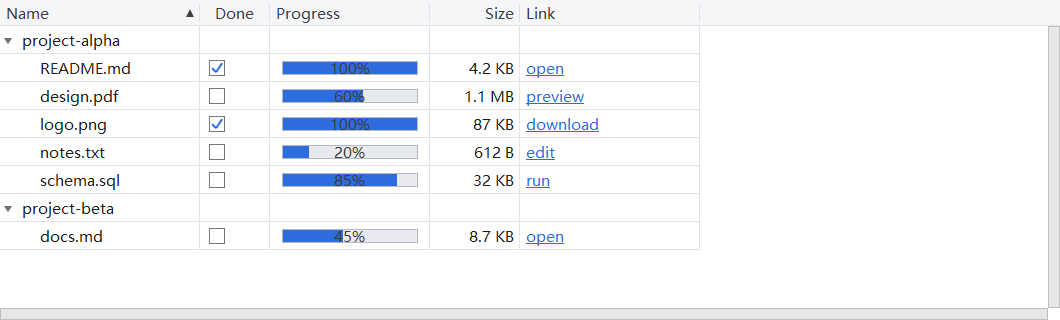
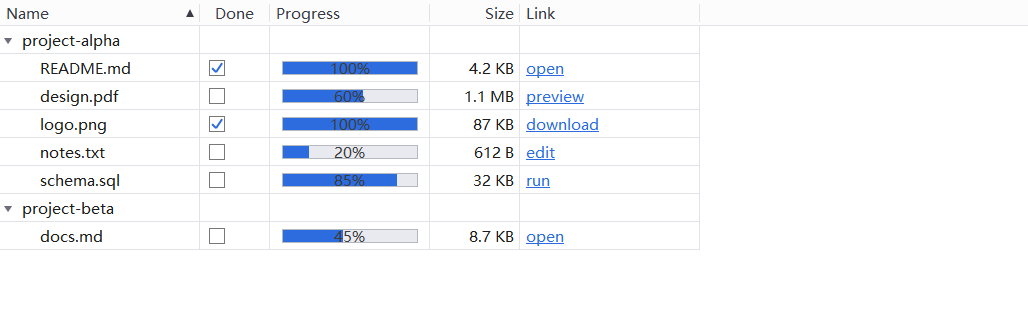
docs: add screenshots for the new menu, list and tooltip features and retake the scroll bar ones
- New: ctl-menu-header-shortcut.png (group headers and the right-aligned
  shortcut column), ctl-listbox-icons.png (row icons, secondary text and
  delete crosses), ctl-tooltip-multiline.png (a two-line tip), inserted into
  the DuiMenu / DuiListBox / DuiToolTip sections of both guides.
- Retaken: ctl-scrollbar-states.png now shows the thin overlay thumbs (with
  auto-hide off for the shot; caption updated), ctl-treeview-multicol.png no
  longer shows the old track scroll bars, and ctl-button-pushbutton-states.png
  matches the current push button look.

All screenshots use English text like the existing ones, since both guides
share the images; guides.md / guides_en.md are regenerated.

diff --git a/docs/guides_en.html b/docs/guides_en.html
@@ -2906,6 +2906,10 @@ vbox-&gt;AddChild(std::move(lb), balloonwjui::DuiLayout::Hint().Weight(1));
     <tr><td><code>SetShowItemDelete(bool)</code></td><td>Draws a delete cross at the right end of each row (off by default); clicking it fires <code>DUITN_ITEMDELETE</code> and changes <u>neither</u> the selection nor the rows — the host decides whether to delete. The cross moves left to clear the scroll bar while the bar is shown.</td></tr>
     <tr><td><code>SetItemHeight(px)</code> / <code>SetDragReorderEnabled(bool)</code> / <code>MoveItem(from, to)</code></td><td>Row height; drag reordering.</td></tr>
   </table>
+  <figure class="ctl-fig">
+    <img src="images/ctl-listbox-icons.png" alt="DuiListBox row icons, secondary text and delete crosses">
+    <figcaption>A left icon, the main text and a dimmed secondary text per row, with a delete cross at the right end (<code>SetShowItemDelete(true)</code>); the second row is selected. The dropdown of <code>DuiComboBox</code> draws its rows the same way.</figcaption>
+  </figure>
   <h4>Events</h4>
   <table class="ev-table">
     <tr><th>code</th><th>When it fires</th><th>extra (LPARAM)</th></tr>
@@ -3624,6 +3628,10 @@ if (n-&gt;ctrlId == IDC_TABPAGE &amp;&amp; n-&gt;code == DUIN_VALUECHANGED) {
 
 <div class="control" id="DuiMenu">
   <h3>DuiMenu <span class="tag popup">popup</span></h3>
+  <figure class="ctl-fig">
+    <img src="images/ctl-menu-header-shortcut.png" alt="DuiMenu group headers and shortcut column">
+    <figcaption>Two group headers (Edit / Format), the grey right-aligned shortcut column, a checked item (Word wrap) and a disabled item (Clear formatting).</figcaption>
+  </figure>
   <p>Right-click / command menu. Supports icons, checkable items, disabled items, submenus (auto-expand on hover), separators, group header rows, and a right-aligned shortcut-text column.</p>
 
   <p><b>Typical parent:</b> <u>not attached</u> to a parent DuiControl — create a <code>DuiMenu</code> on the stack and call <code>TrackPopup(x, y, ownerHwnd)</code> to pop it up at screen coordinates. <code>TrackPopup</code> is <u>synchronous</u> (like Win32 <code>TrackPopupMenu</code>): it returns after the user picks an item, clicks outside, or presses Esc, and its return value is the chosen item id, or 0 if nothing was chosen. The position is clamped to the work area of the anchor's monitor automatically (it flips left when there is no room on the right and up when there is no room below), so a menu opened at the screen edge never ends up off the desktop; callers need not handle this.</p>
@@ -3773,6 +3781,10 @@ balloonwjui::DuiToolTipMgr::Inst().Unregister(buttonRaw);
   <p><b>Multi-line tips</b>: put <code>\n</code> in the text to break lines; lines are left-aligned, the popup is as wide as the longest line and as tall as the line count × line height. Text without a line break is laid out on a single line as before.</p>
 <pre><code>balloonwjui::DuiToolTipMgr::Inst().Register(buttonRaw, _T("Save the file\nShortcut: Ctrl+S"));
 </code></pre>
+  <figure class="ctl-fig">
+    <img src="images/ctl-tooltip-multiline.png" alt="DuiToolTip multi-line tip">
+    <figcaption>A two-line tip: the popup is as wide as the longest line.</figcaption>
+  </figure>
   <p><b>Delay and font</b>: the tip appears after the mouse rests for 500 ms by default; change it with <code>DuiToolTipMgr::Inst().SetDelay(ms)</code>. The popup takes its font and measures its size with the DPI of the monitor it pops up on, so the text size is right on monitors with different scaling.</p>
 
   <p class="note"><b>No XML path</b>: tooltips are registered via an imperative API; there's no "attach to control tree" step, so they don't participate in the XML builder.</p>
@@ -4111,7 +4123,7 @@ int idBell     = frame.AddCaptionIcon(hBell,     _T("Notifications"));
   <h3>DuiScrollBar / DuiScrollView</h3>
   <figure class="ctl-fig">
     <img src="images/ctl-scrollbar-states.png" alt="DuiScrollBar vertical + horizontal">
-    <figcaption>Left: vertical scrollbar. Right: horizontal scrollbar. The thumb position follows SetPos. (The screenshot shows the style used before the switch to the thin overlay thumb on 2026-10-04.)</figcaption>
+    <figcaption>Left: vertical scrollbar. Right: horizontal scrollbar. Thin overlay thumbs with no track; the thumb position follows SetPos. Auto-hide was turned off for the screenshot (<code>SetAutoHide(false)</code>); by default the bars fade out about 800 ms after the last interaction.</figcaption>
   </figure>
   <p>Standalone scrollbar + built-in scroll container. <code>DuiScrollView::SetContent(child)</code> installs the content; <code>SetContentHeight(h)</code> (or <code>SetAutoContentHeight(true)</code> to auto-measure) declares the scroll range.</p>
   <p><b>Appearance (thin overlay thumb):</b> only a 5 px wide, semi-transparent gray thumb with semicircular ends is painted (gray <code>0x5A</code>, opacity 120/255, multiplied by the fade alpha), 2 px in from the right edge of the control rectangle (the bottom edge for a horizontal scrollbar); no track is painted, and the thumb is at least 36 px long along the main axis. The control rectangle itself is a wider "hit band": <code>DuiScrollView</code> / <code>DuiListBox</code> / <code>DuiTreeView</code> float it over the content along the right edge, <code>DuiScrollBar::kOverlayBandPx</code> (11 px) wide by default, and <u>lay the content out at full width</u>; while the scrollbar is shown, mouse events inside the hit band go to the scrollbar even if it is currently faded out. Press the thumb to drag it; pressing on an empty part of the track first moves the thumb's center to the click point, after which you can keep dragging.</p>

diff --git a/docs/guides.html b/docs/guides.html
@@ -2901,6 +2901,10 @@ vbox-&gt;AddChild(std::move(lb), balloonwjui::DuiLayout::Hint().Weight(1));
     <tr><td><code>SetShowItemDelete(bool)</code></td><td>每行右端画删除叉（默认关）；点叉发 <code>DUITN_ITEMDELETE</code>，<u>不改变</u>选中行，也不删该行，由宿主决定是否删除。滚动条出现时删除叉左移，让开滚动条</td></tr>
     <tr><td><code>SetItemHeight(px)</code> / <code>SetDragReorderEnabled(bool)</code> / <code>MoveItem(from, to)</code></td><td>行高；拖动重排</td></tr>
   </table>
+  <figure class="ctl-fig">
+    <img src="images/ctl-listbox-icons.png" alt="DuiListBox 每行图标、副文字与删除叉">
+    <figcaption>每行左侧图标 + 主文字 + 弱色副文字，右端是删除叉（<code>SetShowItemDelete(true)</code>），第二行选中。下拉框（<code>DuiComboBox</code>）的下拉列表画法相同。</figcaption>
+  </figure>
   <h4>事件</h4>
   <table class="ev-table">
     <tr><th>code</th><th>触发</th><th>extra (LPARAM)</th></tr>
@@ -3614,6 +3618,10 @@ if (n-&gt;ctrlId == IDC_TABPAGE &amp;&amp; n-&gt;code == DUIN_VALUECHANGED) {
 
 <div class="control" id="DuiMenu">
   <h3>DuiMenu <span class="tag popup">popup</span></h3>
+  <figure class="ctl-fig">
+    <img src="images/ctl-menu-header-shortcut.png" alt="DuiMenu 分组标题与快捷键列">
+    <figcaption>两个分组标题（Edit / Format）、靠右的灰色快捷键列、勾选项（Word wrap）与禁用项（Clear formatting）。</figcaption>
+  </figure>
   <p>右键 / 命令菜单。支持图标、勾选项、禁用项、子菜单（悬停自动展开）、分隔线、分组标题行，以及靠右对齐的快捷键文字列。</p>
 
   <p><b>典型父：</b><u>不挂</u>父 DuiControl —— 在栈上建一个 <code>DuiMenu</code>，调 <code>TrackPopup(x, y, ownerHwnd)</code> 在屏幕坐标弹出。<code>TrackPopup</code> 是<u>同步</u>的（与 Win32 的 <code>TrackPopupMenu</code> 一样）：用户点了某项、点到菜单外或按 Esc 之后才返回，返回值就是被点项的 id，0 表示没有选择。落点会自动限制在锚点所在显示器的工作区内（右边放不下翻向左、下边放不下翻向上），贴着屏幕边缘弹出也不会跑到桌面外，调用方不必自己处理。</p>
@@ -3763,6 +3771,10 @@ balloonwjui::DuiToolTipMgr::Inst().Unregister(buttonRaw);
   <p><b>多行提示</b>：文字里用 <code>\n</code> 分行，各行左对齐，浮窗宽度取最长的一行、高度为行数 × 行高；不含换行符时按单行排版。</p>
 <pre><code>balloonwjui::DuiToolTipMgr::Inst().Register(buttonRaw, _T("保存文件\n快捷键 Ctrl+S"));
 </code></pre>
+  <figure class="ctl-fig">
+    <img src="images/ctl-tooltip-multiline.png" alt="DuiToolTip 多行提示">
+    <figcaption>两行的提示框：宽度取最长的一行。</figcaption>
+  </figure>
   <p><b>延时与字体</b>：鼠标停留默认 500 ms 后弹出，<code>DuiToolTipMgr::Inst().SetDelay(ms)</code> 可调。浮窗按弹出位置所在显示器的 DPI 取字体并测量尺寸，在缩放比例不同的显示器上字号各自正确。</p>
 
   <p class="note"><b>无 XML 路径</b>：tooltip 通过命令式 API 注册，没有"挂入控件树"这一步，因此不参与 XML builder。</p>
@@ -4101,7 +4113,7 @@ int idBell     = frame.AddCaptionIcon(hBell,     _T("Notifications"));
   <h3>DuiScrollBar / DuiScrollView</h3>
   <figure class="ctl-fig">
     <img src="images/ctl-scrollbar-states.png" alt="DuiScrollBar 垂直 + 水平">
-    <figcaption>左侧：垂直滚动条；右侧：水平滚动条。thumb 位置随 SetPos 改变。（截图为 2026-10-04 改为悬浮式细滑块之前的样式。）</figcaption>
+    <figcaption>左侧：垂直滚动条；右侧：水平滚动条。悬浮式细滑块，不画轨道，thumb 位置随 SetPos 改变。截图时关闭了自动隐藏（<code>SetAutoHide(false)</code>），默认情况下停止操作约 800 ms 后会淡出。</figcaption>
   </figure>
   <p>独立滚动条 + 内置滚动容器。<code>DuiScrollView::SetContent(child)</code> 装内容，<code>SetContentHeight(h)</code>（或 <code>SetAutoContentHeight(true)</code> 自动量高）告知滚动范围。</p>
   <p><b>外观（悬浮式细滑块）：</b>只画一根 5 像素宽、两端为半圆的半透明灰色滑块（灰 <code>0x5A</code>、不透明度 120/255，再乘以淡入淡出的 alpha），贴在控件矩形右缘往里 2 像素处（水平滚动条为下缘），不画轨道；滑块沿主轴最短 36 像素。控件矩形本身是比滑块宽的「命中带」，<code>DuiScrollView</code> / <code>DuiListBox</code> / <code>DuiTreeView</code> 把它浮在内容之上、贴右缘放置，默认宽 <code>DuiScrollBar::kOverlayBandPx</code>（11 像素），<u>内容按全宽排版</u>；滚动条出现时命中带内的鼠标事件归滚动条，即使它当前处于隐藏态。按下滑块拖动；按在轨道空白处时滑块中心先跳到点击处，接着可以继续拖。</p>

diff --git a/docs/guides_en.md b/docs/guides_en.md
@@ -2736,6 +2736,10 @@ vbox->AddChild(std::move(lb), balloonwjui::DuiLayout::Hint().Weight(1));
 | `SetShowItemDelete(bool)` | Draws a delete cross at the right end of each row (off by default); clicking it fires `DUITN_ITEMDELETE` and changes <u>neither</u> the selection nor the rows — the host decides whether to delete. The cross moves left to clear the scroll bar while the bar is shown. |
 | `SetItemHeight(px)` / `SetDragReorderEnabled(bool)` / `MoveItem(from, to)` | Row height; drag reordering. |
 
+![DuiListBox row icons, secondary text and delete crosses](images/ctl-listbox-icons.png)
+
+*A left icon, the main text and a dimmed secondary text per row, with a delete cross at the right end (`SetShowItemDelete(true)`); the second row is selected. The dropdown of `DuiComboBox` draws its rows the same way.*
+
 #### Events
 
 | code | When it fires | extra (LPARAM) |
@@ -3524,6 +3528,10 @@ if (n->ctrlId == IDC_TABPAGE && n->code == DUIN_VALUECHANGED) {
 
 ### DuiMenu  `[popup]`
 
+![DuiMenu group headers and shortcut column](images/ctl-menu-header-shortcut.png)
+
+*Two group headers (Edit / Format), the grey right-aligned shortcut column, a checked item (Word wrap) and a disabled item (Clear formatting).*
+
 Right-click / command menu. Supports icons, checkable items, disabled items, submenus (auto-expand on hover), separators, group header rows, and a right-aligned shortcut-text column.
 
 **Typical parent:** <u>not attached</u> to a parent DuiControl — create a `DuiMenu` on the stack and call `TrackPopup(x, y, ownerHwnd)` to pop it up at screen coordinates. `TrackPopup` is <u>synchronous</u> (like Win32 `TrackPopupMenu`): it returns after the user picks an item, clicks outside, or presses Esc, and its return value is the chosen item id, or 0 if nothing was chosen. The position is clamped to the work area of the anchor's monitor automatically (it flips left when there is no room on the right and up when there is no room below), so a menu opened at the screen edge never ends up off the desktop; callers need not handle this.
@@ -3692,6 +3700,10 @@ balloonwjui::DuiToolTipMgr::Inst().Unregister(buttonRaw);
 ```
 balloonwjui::DuiToolTipMgr::Inst().Register(buttonRaw, _T("Save the file\nShortcut: Ctrl+S"));
 ```
+
+![DuiToolTip multi-line tip](images/ctl-tooltip-multiline.png)
+
+*A two-line tip: the popup is as wide as the longest line.*
 
 **Delay and font**: the tip appears after the mouse rests for 500 ms by default; change it with `DuiToolTipMgr::Inst().SetDelay(ms)`. The popup takes its font and measures its size with the DPI of the monitor it pops up on, so the text size is right on monitors with different scaling.
 
@@ -4087,7 +4099,7 @@ The same client-area content (one `BuildBuddyInfoContent`) shown in four configu
 
 ![DuiScrollBar vertical + horizontal](images/ctl-scrollbar-states.png)
 
-*Left: vertical scrollbar. Right: horizontal scrollbar. The thumb position follows SetPos. (The screenshot shows the style used before the switch to the thin overlay thumb on 2026-10-04.)*
+*Left: vertical scrollbar. Right: horizontal scrollbar. Thin overlay thumbs with no track; the thumb position follows SetPos. Auto-hide was turned off for the screenshot (`SetAutoHide(false)`); by default the bars fade out about 800 ms after the last interaction.*
 
 Standalone scrollbar + built-in scroll container. `DuiScrollView::SetContent(child)` installs the content; `SetContentHeight(h)` (or `SetAutoContentHeight(true)` to auto-measure) declares the scroll range.
 

diff --git a/docs/guides.md b/docs/guides.md
@@ -2733,6 +2733,10 @@ vbox->AddChild(std::move(lb), balloonwjui::DuiLayout::Hint().Weight(1));
 | `SetShowItemDelete(bool)` | 每行右端画删除叉（默认关）；点叉发 `DUITN_ITEMDELETE`，<u>不改变</u>选中行，也不删该行，由宿主决定是否删除。滚动条出现时删除叉左移，让开滚动条 |
 | `SetItemHeight(px)` / `SetDragReorderEnabled(bool)` / `MoveItem(from, to)` | 行高；拖动重排 |
 
+![DuiListBox 每行图标、副文字与删除叉](images/ctl-listbox-icons.png)
+
+*每行左侧图标 + 主文字 + 弱色副文字，右端是删除叉（`SetShowItemDelete(true)`），第二行选中。下拉框（`DuiComboBox`）的下拉列表画法相同。*
+
 #### 事件
 
 | code | 触发 | extra (LPARAM) |
@@ -3516,6 +3520,10 @@ if (n->ctrlId == IDC_TABPAGE && n->code == DUIN_VALUECHANGED) {
 
 ### DuiMenu  `[popup]`
 
+![DuiMenu 分组标题与快捷键列](images/ctl-menu-header-shortcut.png)
+
+*两个分组标题（Edit / Format）、靠右的灰色快捷键列、勾选项（Word wrap）与禁用项（Clear formatting）。*
+
 右键 / 命令菜单。支持图标、勾选项、禁用项、子菜单（悬停自动展开）、分隔线、分组标题行，以及靠右对齐的快捷键文字列。
 
 **典型父：**<u>不挂</u>父 DuiControl —— 在栈上建一个 `DuiMenu`，调 `TrackPopup(x, y, ownerHwnd)` 在屏幕坐标弹出。`TrackPopup` 是<u>同步</u>的（与 Win32 的 `TrackPopupMenu` 一样）：用户点了某项、点到菜单外或按 Esc 之后才返回，返回值就是被点项的 id，0 表示没有选择。落点会自动限制在锚点所在显示器的工作区内（右边放不下翻向左、下边放不下翻向上），贴着屏幕边缘弹出也不会跑到桌面外，调用方不必自己处理。
@@ -3684,6 +3692,10 @@ balloonwjui::DuiToolTipMgr::Inst().Unregister(buttonRaw);
 ```
 balloonwjui::DuiToolTipMgr::Inst().Register(buttonRaw, _T("保存文件\n快捷键 Ctrl+S"));
 ```
+
+![DuiToolTip 多行提示](images/ctl-tooltip-multiline.png)
+
+*两行的提示框：宽度取最长的一行。*
 
 **延时与字体**：鼠标停留默认 500 ms 后弹出，`DuiToolTipMgr::Inst().SetDelay(ms)` 可调。浮窗按弹出位置所在显示器的 DPI 取字体并测量尺寸，在缩放比例不同的显示器上字号各自正确。
 
@@ -4079,7 +4091,7 @@ DuiGallery 演示：FrameWindow tab → "Min / Max drag size limits" section 三
 
 ![DuiScrollBar 垂直 + 水平](images/ctl-scrollbar-states.png)
 
-*左侧：垂直滚动条；右侧：水平滚动条。thumb 位置随 SetPos 改变。（截图为 2026-10-04 改为悬浮式细滑块之前的样式。）*
+*左侧：垂直滚动条；右侧：水平滚动条。悬浮式细滑块，不画轨道，thumb 位置随 SetPos 改变。截图时关闭了自动隐藏（`SetAutoHide(false)`），默认情况下停止操作约 800 ms 后会淡出。*
 
 独立滚动条 + 内置滚动容器。`DuiScrollView::SetContent(child)` 装内容，`SetContentHeight(h)`（或 `SetAutoContentHeight(true)` 自动量高）告知滚动范围。
 
